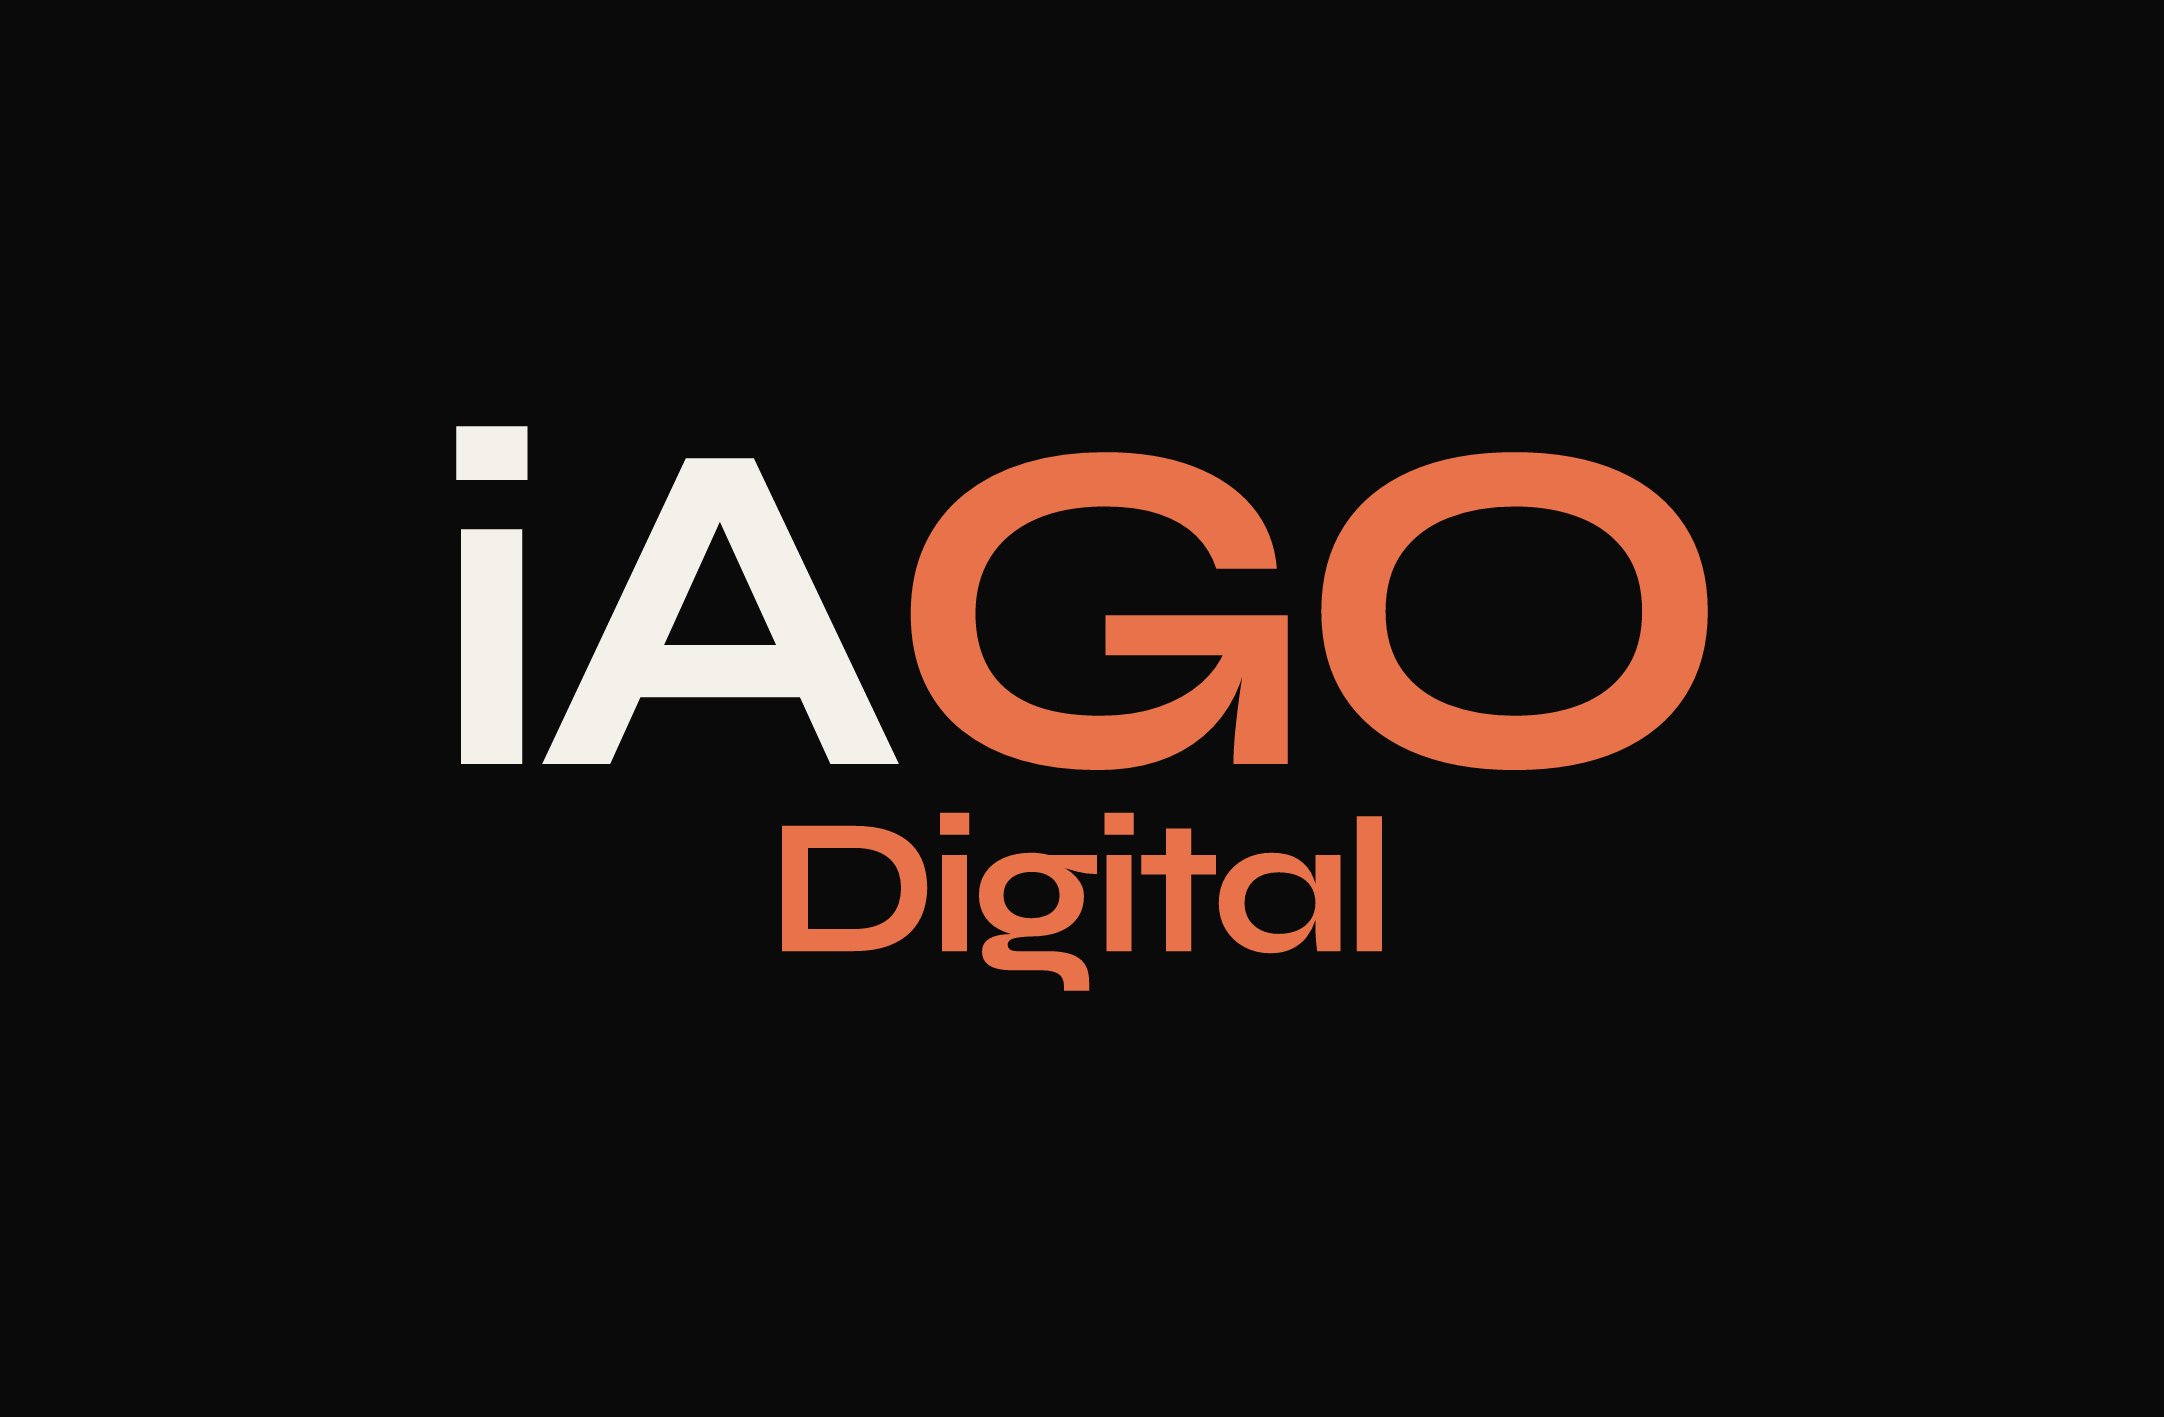
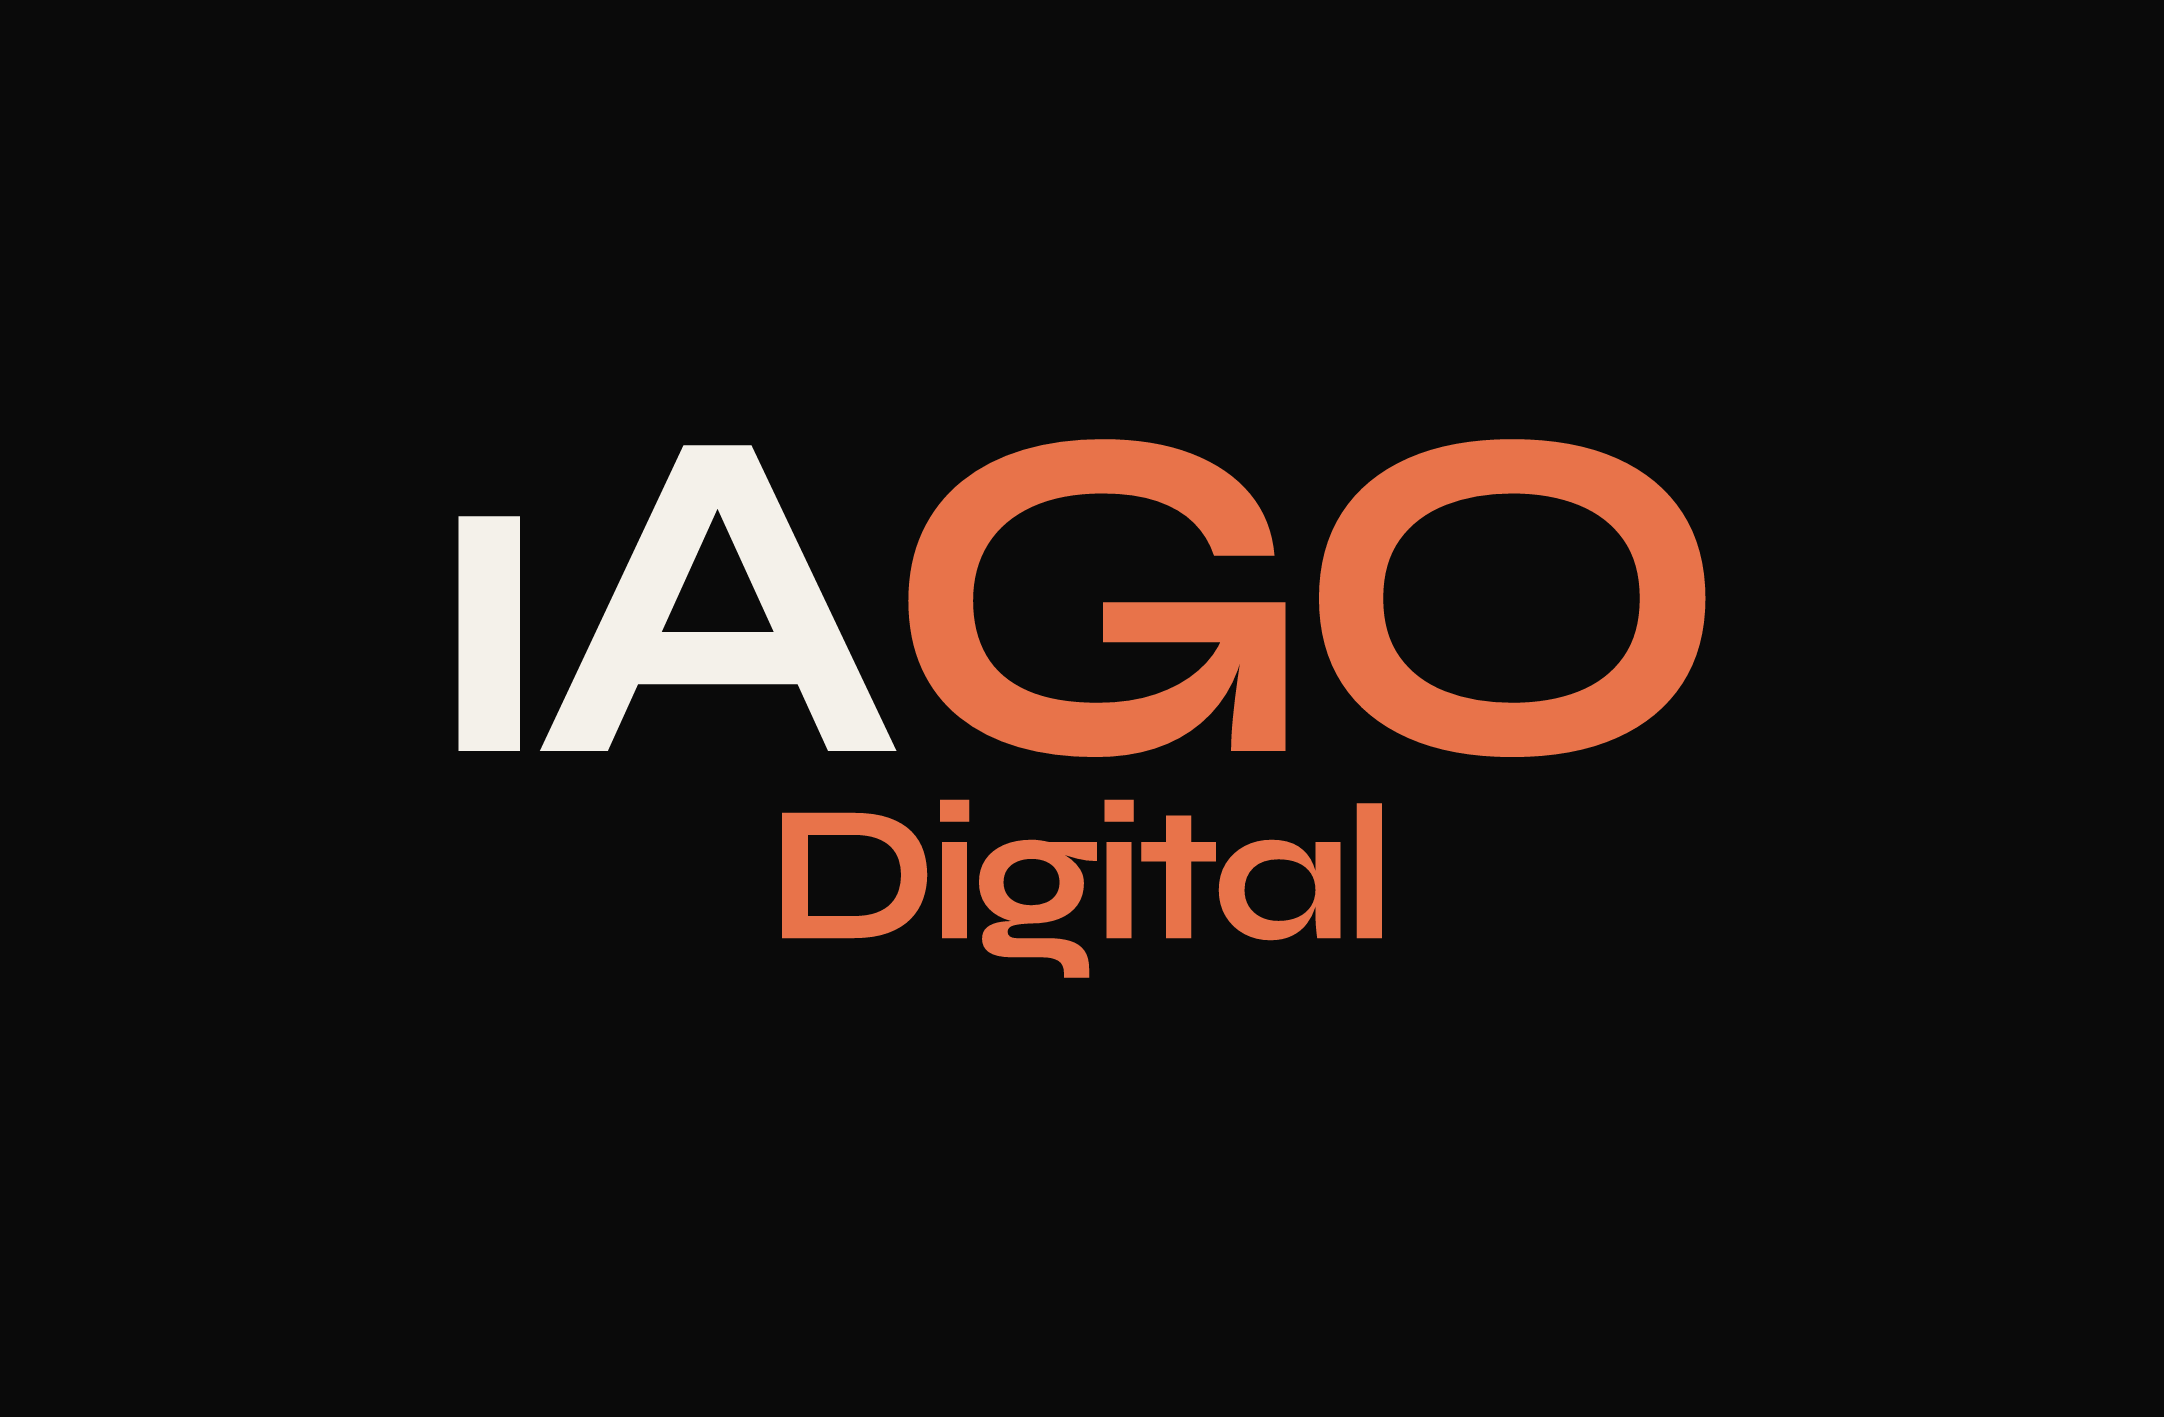
Drop the tittle from the i in the IAGO wordmark
Keep the i stem only on the stacked logo so the NFC print files no longer include the dot.

diff --git a/scripts/export-nfc-logo.py b/scripts/export-nfc-logo.py
@@ -18,6 +18,7 @@ from dataclasses import dataclass
 from pathlib import Path
 
 from fontTools.misc.transform import Transform
+from fontTools.pens.recordingPen import RecordingPen
 from fontTools.pens.svgPathPen import SVGPathPen
 from fontTools.pens.transformPen import TransformPen
 from fontTools.ttLib import TTFont
@@ -70,16 +71,60 @@ def load_syne_bold(cache_dir: Path) -> TTFont:
     return TTFont(bold_path)
 
 
-def glyph_bounds(font: TTFont, name: str) -> tuple[float, float, float, float]:
-    glyph = font["glyf"][name]
-    if glyph.numberOfContours == 0 or glyph.xMin is None:
+def split_contours(recording: list) -> list[list]:
+    contours: list[list] = []
+    current: list = []
+    for op, args in recording:
+        current.append((op, args))
+        if op in ("closePath", "endPath"):
+            contours.append(current)
+            current = []
+    if current:
+        contours.append(current)
+    return contours
+
+
+def contour_ymax(contour: list) -> float:
+    ys = []
+    for _op, args in contour:
+        for point in args:
+            if isinstance(point, tuple) and len(point) >= 2:
+                ys.append(point[1])
+    return max(ys) if ys else float("-inf")
+
+
+def stem_recording(glyph_set, name: str, drop_tittle: bool) -> list:
+    rec = RecordingPen()
+    glyph_set[name].draw(rec)
+    if not drop_tittle:
+        return rec.value
+    contours = split_contours(rec.value)
+    if len(contours) < 2:
+        return rec.value
+    tittle = max(range(len(contours)), key=lambda i: contour_ymax(contours[i]))
+    kept = []
+    for index, contour in enumerate(contours):
+        if index != tittle:
+            kept.extend(contour)
+    return kept
+
+
+def recording_bounds(recording: list) -> tuple[float, float, float, float]:
+    xs: list[float] = []
+    ys: list[float] = []
+    for _op, args in recording:
+        for point in args:
+            if isinstance(point, tuple) and len(point) >= 2:
+                xs.append(point[0])
+                ys.append(point[1])
+    if not xs:
         return (0.0, 0.0, 0.0, 0.0)
-    return (
-        float(glyph.xMin),
-        float(glyph.yMin),
-        float(glyph.xMax),
-        float(glyph.yMax),
-    )
+    return (min(xs), min(ys), max(xs), max(ys))
+
+
+def replay(recording: list, pen) -> None:
+    for op, args in recording:
+        getattr(pen, op)(*args)
 
 
 def layout_word(
@@ -90,6 +135,7 @@ def layout_word(
     baseline_y: float,
     color_for,
     tracking_em: float = TRACKING_EM,
+    drop_i_tittle: bool = False,
 ) -> list[PlacedGlyph]:
     glyph_set = font.getGlyphSet()
     cmap = font.getBestCmap()
@@ -105,14 +151,16 @@ def layout_word(
             continue
         name = cmap[ord(char)]
         glyph = glyph_set[name]
-        xmin, ymin, xmax, ymax = glyph_bounds(font, name)
+        drop_tittle = drop_i_tittle and char == "i"
+        recording = stem_recording(glyph_set, name, drop_tittle)
+        xmin, ymin, xmax, ymax = recording_bounds(recording)
         advance = glyph.width * scale
-        if font["glyf"][name].numberOfContours == 0:
+        if not recording:
             x += advance
             continue
         pen = SVGPathPen(glyph_set)
         transform = Transform().translate(x, baseline_y).scale(scale, -scale)
-        glyph.draw(TransformPen(pen, transform))
+        replay(recording, TransformPen(pen, transform))
         placed.append(
             PlacedGlyph(
                 char=char,
@@ -192,7 +240,9 @@ def wordmark_glyphs(
     iago_color,
     digital_color: str,
 ) -> list[PlacedGlyph]:
-    iago = layout_word(font, "iAGO", iago_size, 0, 0, iago_color)
+    iago = layout_word(
+        font, "iAGO", iago_size, 0, 0, iago_color, drop_i_tittle=True
+    )
     digital_probe = layout_word(
         font, "Digital", digital_size, 0, 0, lambda _ch: digital_color
     )
